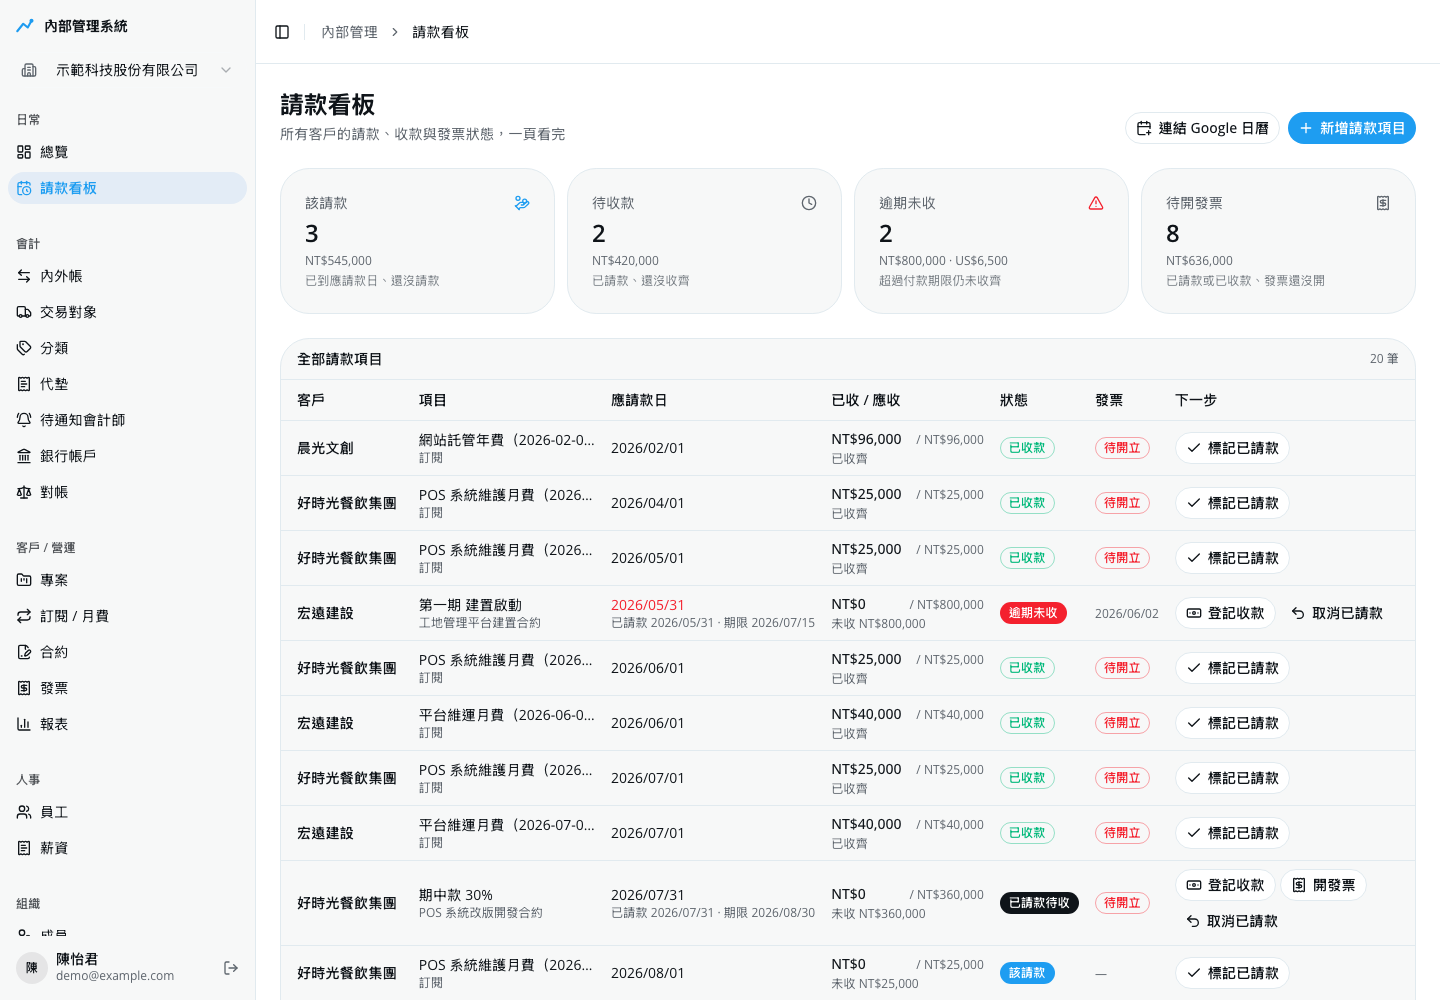
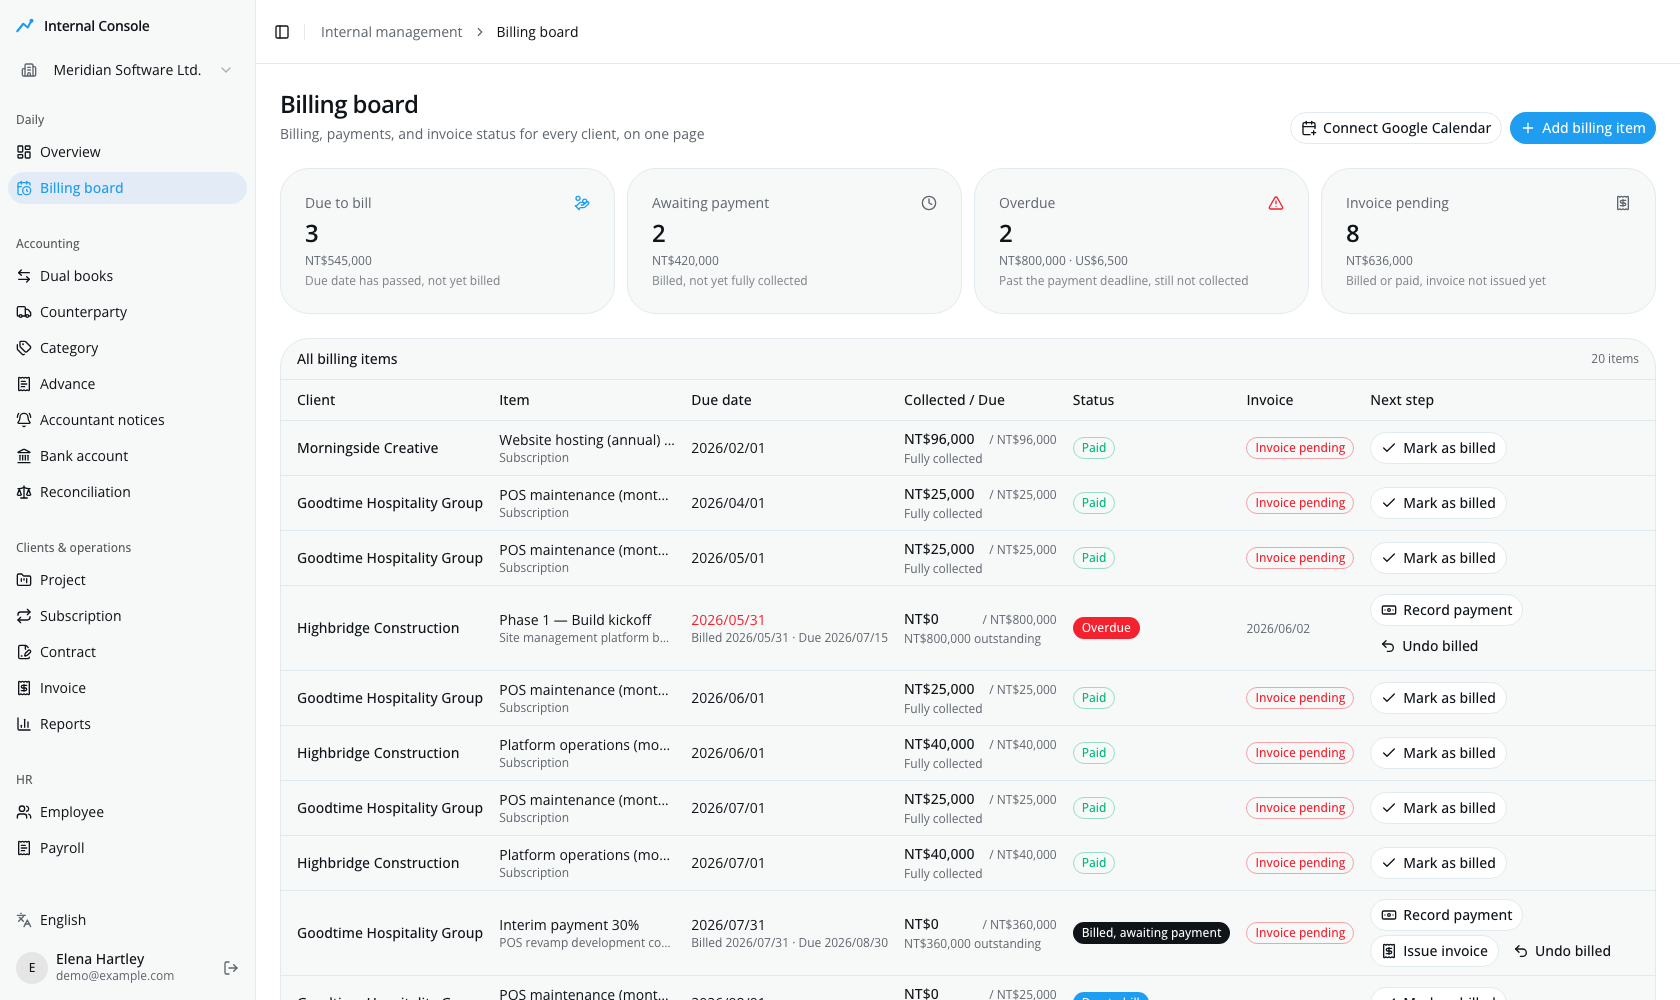
[docs] README 截圖改成四格網格，補上 i18n 說明
- 「What it looks like」改用 2×2 表格，一列兩張，圖不再每張占滿整頁寬。
- 截圖換成英文介面（示範資料也一併英文化，數字與狀態不變）。
- 新增 Internationalization 段落說明 cookie 語系與雙語訊息檔結構。
- 原本「UI 是繁中」的敘述已不成立，三處一併更正。

diff --git a/README.md b/README.md
@@ -20,7 +20,8 @@ It keeps two sets of books — *internal* and *external* (內外帳) — in one 
 the money owed to you on the other side: projects, contracts, subscriptions, invoices and
 who still hasn't paid. It's the in-house tool we run ourselves, not a general-purpose ERP.
 
-The UI is in Traditional Chinese (zh-TW); the codebase, docs and configuration are English.
+The UI ships in English and Traditional Chinese (zh-TW), switchable per user from the
+sidebar. The codebase, docs and configuration are English.
 
 ---
 
@@ -28,41 +29,38 @@ The UI is in Traditional Chinese (zh-TW); the codebase, docs and configuration a
 
 > Screenshots are from a demo organization — the company, clients and figures are all made up.
 
-### 請款看板 — one page for the whole billing cycle
-
-Who should be billed, who has been billed, who still owes you, and which invoices are
-outstanding. One-off contract instalments and project milestones are merged with recurring
-subscription periods into a single list, and each row carries its next action.
-
-![Billing board](docs/images/billing.png)
-
-### 內外帳 — the dual-book ledger
-
-Every transaction carries a `book` tag — 內帳 / 外帳 / 內外 — so the internal and external
-views come from the same records instead of two spreadsheets that drift apart. Filter by
-month, book, category or account.
-
-![Transactions](docs/images/transactions.png)
-
-### 總覽 — where the money actually is
-
-Balances per account and per currency (no implicit FX conversion), monthly income vs.
-expense, and the balance trend.
-
-![Dashboard](docs/images/dashboard.png)
-
-### 報表 — receivables ageing, VAT periods, contract coverage
-
-Ageing buckets per client, what each VAT period still needs invoiced, and a check that
-every contract's value has actually been scheduled into billable items.
-
-![Reports](docs/images/reports.png)
-
-### 合約 — collection progress per contract
-
-![Contracts](docs/images/contracts.png)
-
----
+<table>
+  <tr>
+    <td width="50%" valign="top">
+      <img src="docs/images/billing.png" alt="Billing board" width="100%" />
+      <p><b>Billing board</b> — one page for the whole billing cycle.<br/>
+      <sub>Who should be billed, who has been billed, who still owes you. One-off
+      contract instalments and recurring subscription periods merge into a single
+      list, and every row carries its next action.</sub></p>
+    </td>
+    <td width="50%" valign="top">
+      <img src="docs/images/transactions.png" alt="Dual-book ledger" width="100%" />
+      <p><b>Dual books</b> — the internal / external ledger.<br/>
+      <sub>Every transaction carries a <code>book</code> tag, so both views come from
+      the same records instead of two spreadsheets that drift apart. Filter by month,
+      book, category or account.</sub></p>
+    </td>
+  </tr>
+  <tr>
+    <td width="50%" valign="top">
+      <img src="docs/images/dashboard.png" alt="Overview" width="100%" />
+      <p><b>Overview</b> — where the money actually is.<br/>
+      <sub>Balances per account and per currency with no implicit FX conversion,
+      monthly income against expense, and the balance trend.</sub></p>
+    </td>
+    <td width="50%" valign="top">
+      <img src="docs/images/reports.png" alt="Reports" width="100%" />
+      <p><b>Reports</b> — receivables, tax periods, contract coverage.<br/>
+      <sub>Ageing buckets per client, what each VAT period still needs invoiced, and a
+      check that every contract's value has actually been scheduled into billable items.</sub></p>
+    </td>
+  </tr>
+</table>
 
 ## Features
 
@@ -84,6 +82,8 @@ every contract's value has actually been scheduled into billable items.
 - **Documents** — file uploads to object storage (e.g. receipts attached to transactions).
 - **MCP** — the ledger is also exposed as an MCP server, so an AI agent can query and record
   against it. See [`docs/mcp.md`](docs/mcp.md).
+- **Bilingual UI** — English and Traditional Chinese, switched per user without
+  reloading or changing URLs. See [Internationalization](#internationalization).
 - **Auth** — Google OAuth via better-auth, invite-based member management, org settings.
 
 ## Tech stack
@@ -91,6 +91,7 @@ every contract's value has actually been scheduled into billable items.
 | Layer | Choice |
 | --- | --- |
 | Frontend | Next.js 16 (App Router), React 19, Tailwind CSS v4, shadcn/ui + Base UI |
+| i18n | next-intl (cookie-based locale, no URL segment) |
 | Backend | Next.js Route Handlers / Server Actions, better-auth |
 | Database | Postgres + Drizzle ORM (introspect-only schema, plain-SQL migrations) |
 | Tooling | Bun |
@@ -137,6 +138,46 @@ See [`.env.example`](.env.example) for the full template.
 
 ---
 
+## Internationalization
+
+The UI ships in **English** and **Traditional Chinese (zh-TW)**. Readers switch locale from
+the sidebar; the choice is stored in a `locale` cookie.
+
+There is deliberately **no locale segment in the URL** — `/billing` is `/billing` in every
+language. That keeps the auth callbacks, the MCP endpoints and every bookmark stable.
+
+```
+src/i18n/
+  config.ts            # locale list, default, cookie name
+  request.ts           # next-intl request config
+  messages/
+    dictionary.ts      # Leaf / Dictionary types + locale projection
+    <area>.ts          # one file per area, all locales side by side
+```
+
+Every string carries its translations together, rather than living in parallel per-locale
+trees:
+
+```ts
+const dashboard = {
+  title: { "zh-TW": "總覽", en: "Overview" },
+} satisfies Dictionary;
+```
+
+A key missing a locale — or carrying a misspelled one — is a **build error**, not a string
+that silently falls back. Keeping both languages on the same key also makes a gap visible
+where you are already reading, and means adding a locale is a compiler-guided edit rather
+than a diff between two files. Translations are read with
+[next-intl](https://next-intl.dev) — `useTranslations()` in Client Components,
+`await getTranslations()` in Server Components and Server Actions. Server Actions translate
+their own validation errors, so a message that surfaces in a toast is in the same language as
+the page that triggered it.
+
+To add a locale: add it to `locales` in `src/i18n/config.ts` and let TypeScript walk you
+through every key that now needs a translation.
+
+---
+
 ## Database
 
 Postgres through **Drizzle ORM**. `src/db/schema.ts` is introspected from the database
@@ -173,6 +214,7 @@ src/
   app/            # Next.js App Router (dashboard pages, auth routes, onboarding)
   components/     # UI components (shadcn/ui + Base UI) and shared widgets
   db/             # Drizzle client, introspected schema, queries & mutations
+  i18n/           # locale config and bilingual message catalogue
   lib/            # auth (better-auth), session helpers, object storage, utils
 migrations/       # plain forward-only SQL migrations
 scripts/          # one-off operational SQL (e.g. bootstrap-owner)
@@ -184,8 +226,8 @@ docker-compose.yml
 ## Contributing
 
 Issues and pull requests are welcome — please use [GitHub Issues](../../issues) for bugs and
-feature requests. User-facing strings are Traditional Chinese (zh-TW); please keep new UI
-copy consistent.
+feature requests. User-facing strings must go through i18n rather than being hardcoded —
+see [Internationalization](#internationalization) for where the message files live.
 
 ## License
 
